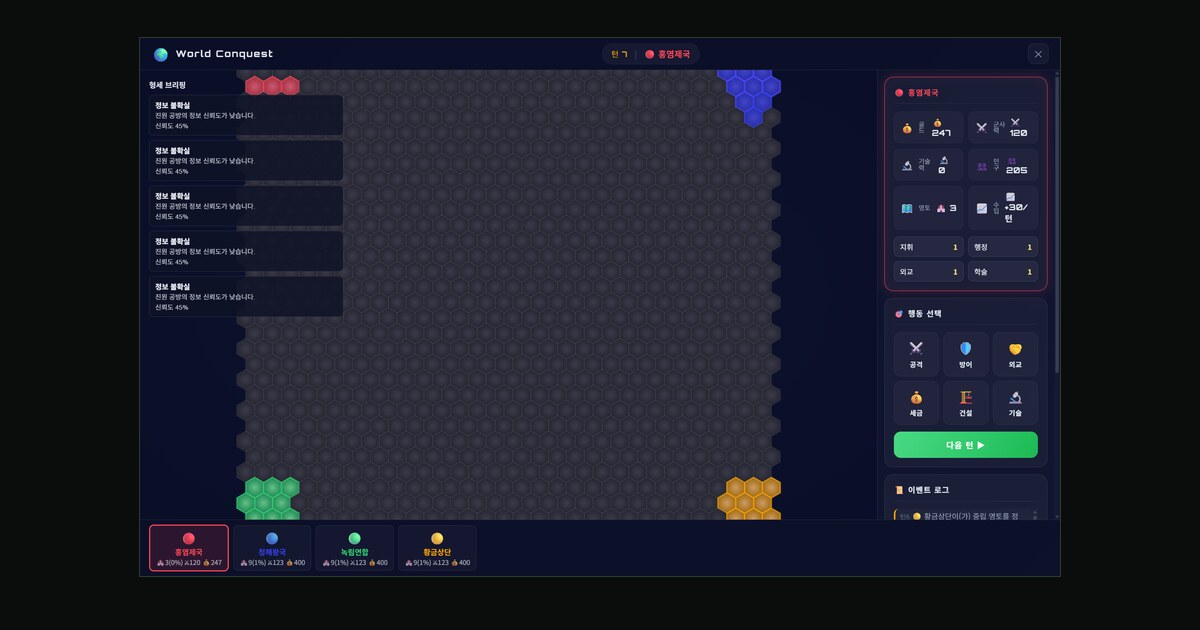
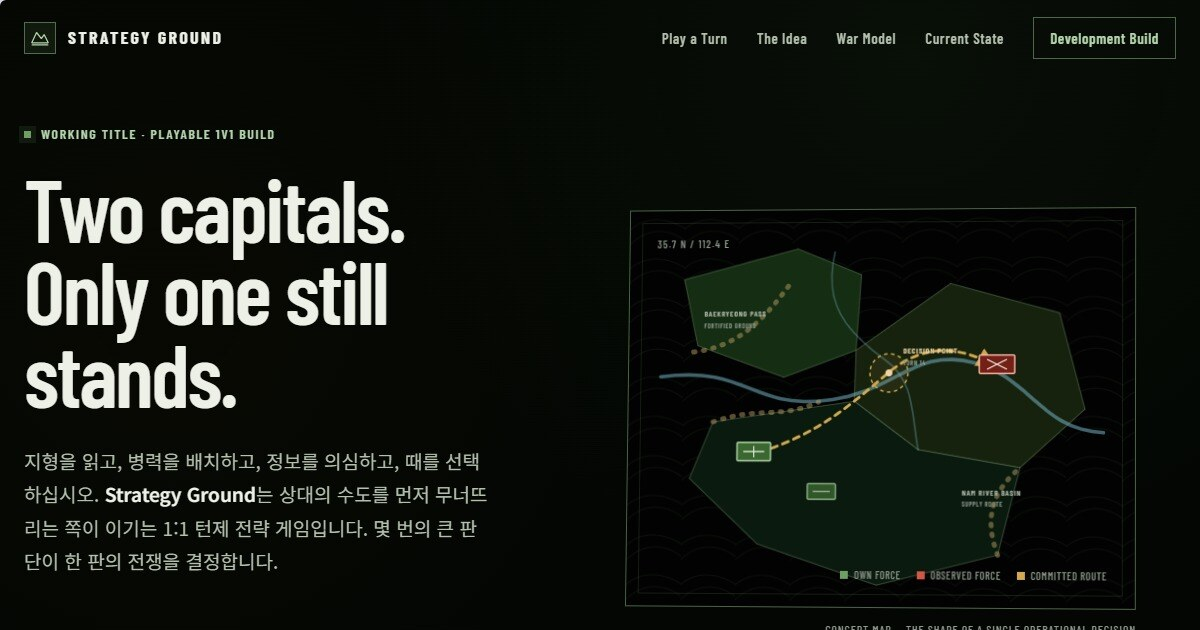
feat(landing): re-cut the page for the duel pivot
The landing was authored 2026-07-16. ADR 0042 landed 2026-07-23 (1v1,
capital fall as the sole win condition, the crisis stack retired) and
nothing on the page was re-cut for it, so the copy sold the pre-pivot
game next to an iframe playing the post-pivot one.

Identity, which the page never stated:
- hero states the duel and the win condition outright
- title / description / og / twitter / ld+json carry the same sentence
- hero-proof badge names 1v1

Corrections:
- crisis removed from #outcomes and #principles (ADR 0042 retires it)
- the operation explainer's last panel no longer promises a "next war"
  or a negotiated settlement; capital fall is the only ending
- #war-model reframed as the arc of one match, not one turn, so it
  complements the demo above instead of contradicting its order
- roadmap replaced by a works/does-not status table: the previous rungs
  claimed PvP and a Steam release, neither of which is decided, and its
  "next" target had already shipped
- the counting device in #proof is retired. Three of its four numbers
  were stale in the one section that staked its honesty on them; the
  replacement names the sealed design areas and links the repository,
  which cannot rot the same way

OG image: the link preview card was a screenshot of the archived
"World Conquest" prototype — four factions, neon HUD, the design system's
own Avoid list. Replaced with the current hero at 1200x630.

Verified live: / 200, /play 200, /game and /game.html 404, no pivot-era
[…]

diff --git a/index.html b/index.html
@@ -3,25 +3,25 @@
 <head>
     <meta charset="utf-8">
     <meta name="viewport" content="width=device-width, initial-scale=1">
-    <meta name="description" content="Strategy Ground는 지형, 병력, 정보, 타이밍에 대한 몇 번의 판단으로 전쟁의 결말을 설계하는 턴제 전략 게임입니다.">
+    <meta name="description" content="Strategy Ground는 상대의 수도를 먼저 무너뜨리는 쪽이 이기는 1:1 턴제 전략 게임입니다. 지형, 병력, 정보, 타이밍에 대한 몇 번의 판단이 한 판의 전쟁을 결정합니다.">
     <meta name="theme-color" content="#0a0d0c">
     <link rel="canonical" href="https://notification-prototype-ec5c5.web.app/">
     <meta property="og:type" content="website">
     <meta property="og:site_name" content="Strategy Ground">
     <meta property="og:locale" content="ko_KR">
     <meta property="og:url" content="https://notification-prototype-ec5c5.web.app/">
-    <meta property="og:title" content="Strategy Ground — Shape the war before the battle begins.">
-    <meta property="og:description" content="복잡성은 깊게, 조작은 간결하게. 결정적 전쟁을 설계하는 턴제 전략 게임.">
+    <meta property="og:title" content="Strategy Ground — Two capitals. Only one still stands.">
+    <meta property="og:description" content="두 나라, 한 번의 전쟁. 상대의 수도를 먼저 무너뜨리는 쪽이 이기는 1:1 턴제 전략 게임.">
     <meta property="og:image" content="https://notification-prototype-ec5c5.web.app/assets/landing/og-image.jpg">
     <meta property="og:image:width" content="1200">
     <meta property="og:image:height" content="630">
     <meta property="og:image:type" content="image/jpeg">
-    <meta property="og:image:alt" content="Strategy Ground 개발 빌드 화면 — 헥스 지도 위 네 세력의 전쟁.">
+    <meta property="og:image:alt" content="Strategy Ground 개발 빌드 화면 — 헥스 지도 위의 작전 상황.">
     <meta name="twitter:card" content="summary_large_image">
-    <meta name="twitter:title" content="Strategy Ground — Shape the war before the battle begins.">
-    <meta name="twitter:description" content="복잡성은 깊게, 조작은 간결하게. 결정적 전쟁을 설계하는 턴제 전략 게임.">
+    <meta name="twitter:title" content="Strategy Ground — Two capitals. Only one still stands.">
+    <meta name="twitter:description" content="두 나라, 한 번의 전쟁. 상대의 수도를 먼저 무너뜨리는 쪽이 이기는 1:1 턴제 전략 게임.">
     <meta name="twitter:image" content="https://notification-prototype-ec5c5.web.app/assets/landing/og-image.jpg">
-    <title>Strategy Ground — Turn-Based War Strategy</title>
+    <title>Strategy Ground — 1v1 Turn-Based War Strategy</title>
 
     <link rel="preconnect" href="https://fonts.googleapis.com">
     <link rel="preconnect" href="https://fonts.gstatic.com" crossorigin>
@@ -35,7 +35,7 @@
         "@type": "VideoGame",
         "name": "Strategy Ground",
         "alternateName": "Strategy Ground (working title)",
-        "description": "지형, 병력, 정보, 타이밍에 대한 몇 번의 판단으로 전쟁의 결말을 설계하는 턴제 전략 게임. 현재 개발 중.",
+        "description": "상대의 수도를 먼저 무너뜨리는 쪽이 이기는 1:1 턴제 전략 게임. 지형, 병력, 정보, 타이밍에 대한 몇 번의 판단이 한 판의 전쟁을 결정합니다. 현재 개발 중.",
         "url": "https://notification-prototype-ec5c5.web.app/",
         "image": "https://notification-prototype-ec5c5.web.app/assets/landing/og-image.jpg",
         "inLanguage": "ko",
@@ -68,10 +68,10 @@
             </button>
 
             <nav id="site-navigation" class="site-nav" aria-label="주요 탐색" data-site-nav>
+                <a href="#build">Play a Turn</a>
                 <a href="#idea">The Idea</a>
                 <a href="#war-model">War Model</a>
-                <a href="#proof">Built in the Open</a>
-                <a href="#development">Development</a>
+                <a href="#development">Current State</a>
                 <a class="nav-build" href="play">Development Build</a>
             </nav>
         </div>
@@ -81,12 +81,12 @@
         <section class="hero" id="top" aria-labelledby="hero-title">
             <div class="hero-shell">
                 <div class="hero-copy">
-                    <p class="status-line"><span aria-hidden="true"></span> Working title · Playable systems prototype</p>
-                    <h1 id="hero-title">Shape the war<br>before the battle begins.</h1>
+                    <p class="status-line"><span aria-hidden="true"></span> Working title · Playable 1v1 build</p>
+                    <h1 id="hero-title">Two capitals.<br>Only one still stands.</h1>
                     <p class="hero-lede">
                         지형을 읽고, 병력을 배치하고, 정보를 의심하고, 때를 선택하십시오.
-                        <strong>Strategy Ground</strong>는 몇 번의 큰 판단이 전쟁의 서사를 만드는
-                        턴제 전략 게임입니다.
+                        <strong>Strategy Ground</strong>는 상대의 수도를 먼저 무너뜨리는 쪽이 이기는
+                        1:1 턴제 전략 게임입니다. 몇 번의 큰 판단이 한 판의 전쟁을 결정합니다.
                     </p>
                     <div class="hero-actions">
                         <a class="button button--primary" href="play">
@@ -157,7 +157,7 @@
                 </figure>
             </div>
             <div class="hero-proof" aria-label="제품 특성">
-                <span>Turn-based war strategy</span>
+                <span>1v1 turn-based war strategy</span>
                 <span>Fictional East Asia-inspired world</span>
                 <span>High complexity, low micromanagement</span>
             </div>
@@ -238,12 +238,13 @@
             <div class="section-shell">
                 <div class="section-heading">
                     <div>
-                        <p class="section-index">A playable explanation</p>
-                        <h2 id="war-model-title">One operation.<br>Four connected judgments.</h2>
+                        <p class="section-index">The arc of one match</p>
+                        <h2 id="war-model-title">One match.<br>Four judgments that decide it.</h2>
                     </div>
                     <p>
-                        Strategy Ground가 어떤 판단의 연결을 게임의 핵심으로 삼는지,
-                        지도 위에서 한 단계씩 짚어 보여주는 인터랙티브 설명입니다.
+                        위에서 둔 것이 <strong>한 턴</strong>이라면, 이것은 <strong>한 판</strong>입니다.
+                        여러 턴에 걸쳐 쌓인 판단이 어떻게 하나의 결말로 수렴하는지,
+                        지도 위에서 한 단계씩 짚어 보여줍니다.
                     </p>
                 </div>
 
@@ -391,7 +392,7 @@
                         </div>
                         <div>
                             <p>Catastrophic commitment</p>
-                            <h3>잘못 고른 결전으로<br>나라의 위기를 열다</h3>
+                            <h3>잘못 고른 결전으로<br>수도로 가는 길을 내주다</h3>
                             <span>노출된 평원 · 끊긴 퇴로 · 소멸한 야전군</span>
                         </div>
                     </article>
@@ -425,7 +426,7 @@
                     </div>
                     <div>
                         <dt>Compressed arc</dt>
-                        <dd>한 판의 성장과 전쟁, 위기를 짧고 밀도 높은 호흡으로 설계합니다.</dd>
+                        <dd>성장과 전쟁과 결말이 한 판 안에서 끝나도록 설계합니다.</dd>
                     </div>
                     <div>
                         <dt>Player-authored climax</dt>
@@ -449,29 +450,34 @@
                     </p>
                 </div>
 
-                <dl class="proof-stats">
+                <dl class="proof-areas">
                     <div>
-                        <dt>437</dt>
-                        <dd><strong>통과하는 자동화 테스트.</strong> 전투 산술과 작전 모델을 회귀로 지킵니다.</dd>
+                        <dt>지형과 보급</dt>
+                        <dd>어디로 갈 수 있고, 가면 무엇을 잃는가. 이동·보급·피로가 하나의 장부로 묶입니다.</dd>
                     </div>
                     <div>
-                        <dt>38</dt>
-                        <dd><strong>기록된 설계 결정(ADR).</strong> 되돌릴 수 없는 규칙을 명문화합니다.</dd>
+                        <dt>전투 해상도</dt>
+                        <dd>전투는 주사위가 아니라 앞선 판단의 산술입니다. 같은 병력도 조건에 따라 다르게 끝납니다.</dd>
                     </div>
                     <div>
-                        <dt>11</dt>
-                        <dd><strong>봉인된 기능 설계 문서.</strong> 지형, 전투 공식, 정보 안개, 작전 카탈로그.</dd>
+                        <dt>정보와 안개</dt>
+                        <dd>모르는 것은 무작위 방해가 아니라 추론할 여지입니다. 무엇이 보이는지가 규칙으로 정해집니다.</dd>
                     </div>
                     <div>
-                        <dt>9</dt>
-                        <dd><strong>검증 중인 전쟁 모델 모듈.</strong> 피로, 이동·보급, 교전, 병력 분할, 정보.</dd>
+                        <dt>전쟁의 끝</dt>
+                        <dd>이기는 방법은 하나입니다. 상대의 수도가 무너지는 것. 그 외의 종결은 설계에서 뺐습니다.</dd>
                     </div>
                 </dl>
 
                 <p class="proof-note">
-                    이 숫자들은 마케팅 문구가 아니라 저장소에 있는 사실입니다. 슬라이스2 전쟁 모델은
-                    지금 테스트로 검증되고 있으며, 다음 증거 목표는 이것을 플레이 가능한 한 번의 전쟁으로
-                    배선하는 것입니다.
+                    이 설계는 화면보다 먼저 문서로 봉인되고 테스트로 지켜집니다. 결정의 기록과
+                    검증 코드는 전부 공개돼 있으니, 우리가 무엇을 정했고 무엇을 아직 못 정했는지
+                    직접 확인하실 수 있습니다.
+                </p>
+                <p class="proof-link">
+                    <a class="button button--quiet" href="https://github.com/benjohnbill/Terrain_Game" rel="noopener">
+                        저장소에서 설계 기록 보기
+                    </a>
                 </p>
             </div>
         </section>
@@ -481,29 +487,35 @@
                 <div class="section-heading">
                     <div>
                         <p class="section-index">Development, without theatre</p>
-                        <h2 id="development-title">Built in public.<br>Promised in layers.</h2>
+                        <h2 id="development-title">What works today.<br>What does not, yet.</h2>
                     </div>
                     <p>
                         지금 작동하는 것과 앞으로 만들 것을 같은 말로 포장하지 않습니다.
-                        출시 날짜 대신, 제품의 증거가 어떤 순서로 깊어지는지 공개합니다.
+                        출시 날짜도, 로드맵 약속도 걸지 않습니다. 위에서 직접 확인할 수 있는
+                        사실만 적습니다.
                     </p>
                 </div>
 
                 <ol class="development-track">
                     <li class="development-step development-step--active">
-                        <div><span>Now</span><i>Current proof</i></div>
-                        <h3>Systems prototype</h3>
-                        <p>가상의 지도, 지형 기반 전투, 상황 판단과 자원 루프가 브라우저에서 지금 돌아갑니다. 위에서 직접 실행해 볼 수 있습니다.</p>
+                        <div><span>됩니다</span><i>Working today</i></div>
+                        <h3>한 판이 끝납니다</h3>
+                        <ul class="state-list">
+                            <li>수도 함락까지 한 판이 실제로 끝납니다</li>
+                            <li>커밋 → 공개 → 전투 → 점령의 한 턴이 돌아갑니다</li>
+                            <li>지형·보급·피로가 실제로 계산됩니다</li>
+                            <li>상대의 판은 규칙에 따라 가려집니다</li>
+                        </ul>
                     </li>
                     <li class="development-step">
-                        <div><span>Next</span><i>Proof target</i></div>
-                        <h3>One complete war</h3>
-                        <p>준비, 작전, 결전, 정산이 하나의 인과관계로 읽히는 전쟁 단위를 검증합니다.</p>
-                    </li>
-                    <li class="development-step">
-                        <div><span>Vision</span><i>Product direction</i></div>
-                        <h3>Every match, a war story</h3>
-                        <p>PvP와 Steam 출시를 향해, 매 판 다른 전쟁사가 남는 완성형 제품으로 확장합니다.</p>
+                        <div><span>아직입니다</span><i>Not yet</i></div>
+                        <h3>여기까지는 없습니다</h3>
+                        <ul class="state-list">
+                            <li>화면은 회색 상자 단계입니다</li>
+                            <li>두 사람이 한 화면을 번갈아 씁니다</li>
+                            <li>혼자 둘 상대는 아직 없습니다</li>
+                            <li>정찰로 적을 재는 일은 아직입니다</li>
+                        </ul>
                     </li>
                 </ol>
 

diff --git a/css/landing.css b/css/landing.css
@@ -1176,10 +1176,38 @@ marker path {
     margin: 0;
     padding: 0;
     display: grid;
-    grid-template-columns: repeat(3, 1fr);
+    grid-template-columns: repeat(2, 1fr);
     list-style: none;
     counter-reset: none;
     border-top: 1px solid var(--line-strong);
+}
+
+.state-list {
+    margin: 0;
+    padding: 0;
+    list-style: none;
+}
+
+.state-list li {
+    position: relative;
+    padding-left: 20px;
+    color: var(--ink-soft);
+    font-size: 0.92rem;
+    line-height: 1.55;
+}
+
+.state-list li + li {
+    margin-top: 12px;
+}
+
+.state-list li::before {
+    content: "";
+    position: absolute;
+    top: 0.62em;
+    left: 0;
+    width: 8px;
+    height: 1px;
+    background: var(--ink-muted);
 }
 
 .development-step {
@@ -1467,44 +1495,36 @@ marker path {
     border-top: 1px solid var(--line);
 }
 
-.proof-stats {
+.proof-areas {
     margin: 0;
     display: grid;
     grid-template-columns: repeat(4, 1fr);
     border-top: 1px solid var(--line-strong);
 }
 
-.proof-stats > div {
+.proof-areas > div {
     padding: 34px 26px 30px 0;
     border-bottom: 1px solid var(--line-strong);
 }
 
-.proof-stats > div + div {
+.proof-areas > div + div {
     padding-left: 26px;
     border-left: 1px solid var(--line-strong);
 }
 
-.proof-stats dt {
-    font-family: var(--font-display);
-    font-size: clamp(3.4rem, 5vw, 4.6rem);
-    font-weight: 700;
-    line-height: 0.9;
-    letter-spacing: -0.02em;
+.proof-areas dt {
+    font-size: clamp(1.35rem, 1.9vw, 1.7rem);
+    font-weight: 600;
+    line-height: 1.15;
+    letter-spacing: -0.01em;
     color: var(--brass-pale);
 }
 
-.proof-stats dd {
+.proof-areas dd {
     margin: 18px 0 0;
     color: var(--ink-soft);
     font-size: 0.9rem;
     line-height: 1.55;
-}
-
-.proof-stats dd strong {
-    display: block;
-    margin-bottom: 4px;
-    color: var(--ink);
-    font-weight: 600;
 }
 
 .proof-note {
@@ -1516,16 +1536,20 @@ marker path {
     font-size: 0.92rem;
 }
 
+.proof-link {
+    margin: 24px 0 0;
+}
+
 @media (max-width: 1024px) {
-    .proof-stats {
+    .proof-areas {
         grid-template-columns: repeat(2, 1fr);
     }
 
-    .proof-stats > div {
+    .proof-areas > div {
         padding: 30px 22px 26px;
     }
 
-    .proof-stats > div:nth-child(odd) {
+    .proof-areas > div:nth-child(odd) {
         padding-left: 0;
         border-left: 0;
     }
@@ -1807,12 +1831,12 @@ marker path {
         grid-column: auto;
     }
 
-    .proof-stats {
+    .proof-areas {
         grid-template-columns: 1fr;
     }
 
-    .proof-stats > div,
-    .proof-stats > div + div {
+    .proof-areas > div,
+    .proof-areas > div + div {
         padding: 24px 0;
         border-left: 0;
     }

diff --git a/js/landing.js b/js/landing.js
@@ -30,9 +30,9 @@ document.addEventListener("DOMContentLoaded", () => {
         consequence: {
             kicker: "Outcome judgment",
             title: "Let the plan become history.",
-            body: "주력은 적의 전면이 아니라 끊어진 연결부를 공격합니다. 앞선 세 번의 판단이 하나의 결과로 수렴하고, 다음 전쟁의 국력까지 바꿉니다.",
-            decision: "고립된 야전군을 파괴할 것인가, 유리한 정산을 요구할 것인가",
-            consequence: "승리는 영토 한 칸이 아니라 전쟁 이후의 판세를 바꿉니다.",
+            body: "주력은 적의 전면이 아니라 끊어진 연결부를 공격합니다. 앞선 세 번의 판단이 하나의 결과로 수렴하고, 적의 수도로 가는 길이 열립니다.",
+            decision: "고립된 야전군을 끝낼 것인가, 수도로 곧장 밀 것인가",
+            consequence: "승리는 영토 한 칸이 아니라 수도까지 남은 거리를 바꿉니다.",
             turn: "16",
             phase: "Field army isolated"
         }
